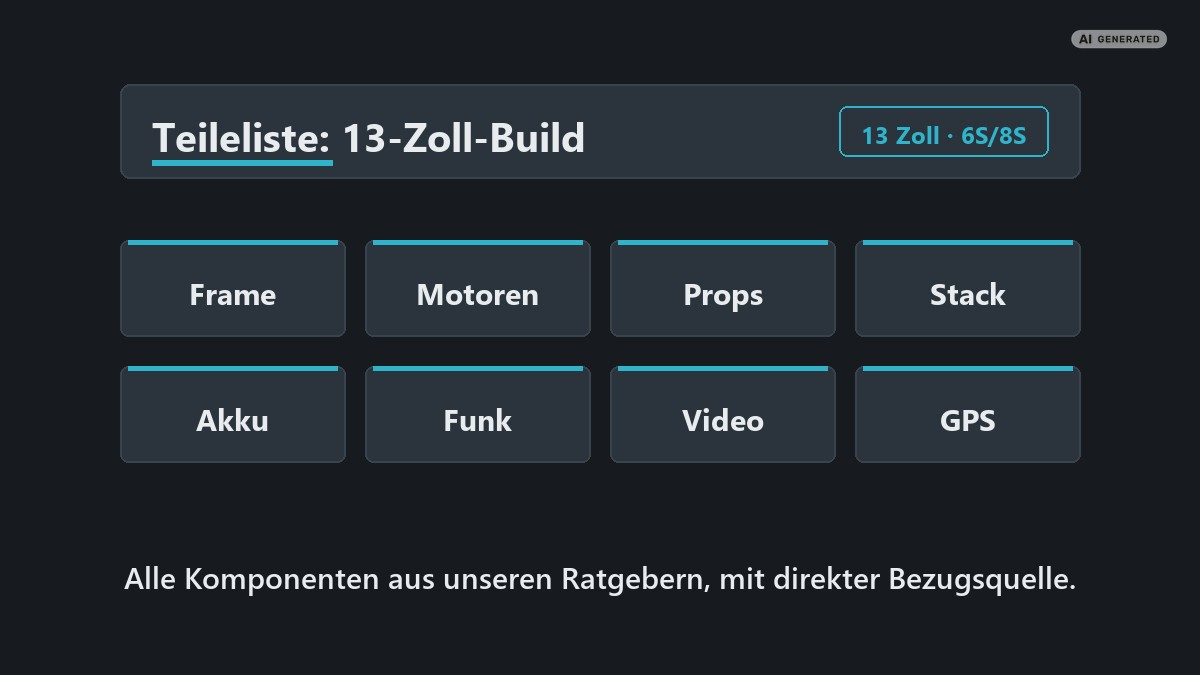
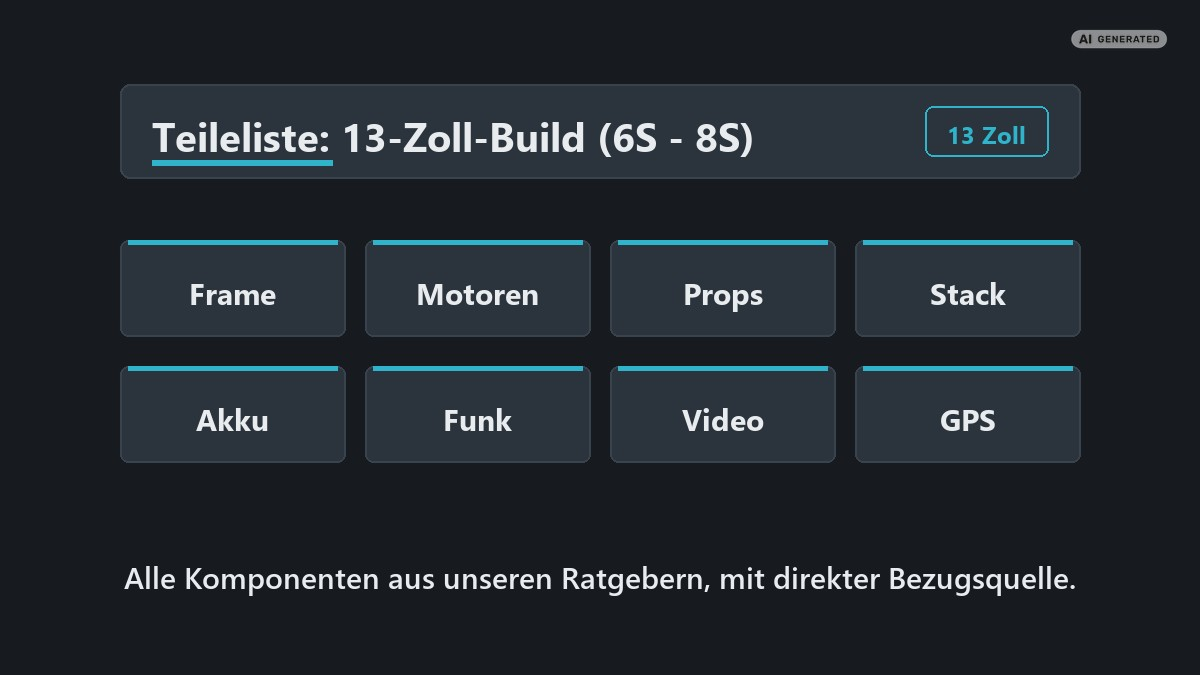
13-Zoll-Liste: Aenderungshistorie auf den Go-live-Eintrag zusammengefasst
Die Liste ist mit dem Umbau auf 13 Zoll und 6S bis 8S neu aufgesetzt worden;
die 40 Zwischeneintraege der Ueberarbeitung sind fuer Leser ohne Wert.  Zudem
Zellenzahl in den Titeln der Vorschaubilder (Chip fuehrt nur noch die Groesse).

Changed region(s): [[0.6783, 0.1556, 0.8633, 0.2489], [0.4933, 0.1867, 0.6475, 0.2489]]

diff --git a/ratgeber-teileliste-13-build-1.html b/ratgeber-teileliste-13-build-1.html
@@ -651,49 +651,6 @@
 <!-- historie:start -->
     <h2>Änderungshistorie</h2>
     <ul class="muted historie">
-      <li><strong>16.08.2026</strong> · Titel auf 13-Zoll-Build (6S - 8S) geaendert, Nummerierung Build 1 entfaellt</li>
-      <li><strong>16.08.2026</strong> · Einleitung klargestellt: Beispiel-Einkaufsliste aus zueinander passenden, aktuell lieferbaren Komponenten</li>
-      <li><strong>16.08.2026</strong> · Korrektur am Rahmen: Das Toruk-Kit hat eine Aufnahme fuer genau eine SMA-Antenne, die zweite muss selbst gedruckt oder zugekauft werden</li>
-      <li><strong>16.08.2026</strong> · Klargestellt, dass der SMA-Antennenhalter in keinem Set enthalten ist und selbst gedruckt oder zugekauft werden muss</li>
-      <li><strong>16.08.2026</strong> · Antennen bleiben optional: Die TPU-Halterung des Toruk-Kits ist fuer die Serienantennen; wer auf SMA umbaut, braucht zusaetzlich eine passende Aufnahme</li>
-      <li><strong>16.08.2026</strong> · Antennen: Am Toruk ist der Tausch praktisch gesetzt, weil dem Kit eine TPU-Halterung fuer SMA-Antennen beiliegt und die Serienantennen keine Aufnahme haben</li>
-      <li><strong>16.08.2026</strong> · Antennen und Pigtails als optionales Upgrade gekennzeichnet: beide Systeme liefern LHCP-Antennen mit, der Gewinn kommt aus Laenge und Abstand zum Carbonrahmen</li>
-      <li><strong>16.08.2026</strong> · Walksnail GT2 jetzt bei FPV24 verlinkt (statt n-factory), Lieferumfang und EU-Sendeleistung ergaenzt</li>
-      <li><strong>16.08.2026</strong> · OddityRC richtig beschrieben: Rahmen von 1S-Racing bis Long Range, nicht nur Cinewhoops</li>
-      <li><strong>16.08.2026</strong> · Lochbild der Toruk-Platte: Anfrage beim Hersteller laeuft, Angabe wird nachgetragen</li>
-      <li><strong>16.08.2026</strong> · AZ4320 eingeordnet: die 6.130 g Herstellerschub gelten mit 15-Zoll-Prop, dazu Gewichtsvergleich zum MN4012; irrefuehrender Kaufgrund gestrichen</li>
-      <li><strong>16.08.2026</strong> · Frame-Kapitel: Hinweis ergaenzt, dass das mitgelieferte Verteilerboard mit den zwei Akkuanschluessen im 6S/8S-Betrieb unbenutzt bleibt</li>
-      <li><strong>16.08.2026</strong> · Lesbarkeit: Zahlenlastige Absaetze bei Motoren, Props, Stack und Antennen in Aufzaehlungen zerlegt</li>
-      <li><strong>16.08.2026</strong> · Uebersicht: Ratgeber-Spalte wieder vollstaendig, Motoren und Props teilen sich einen Verweis, Stack-Zeilen zusammengefasst</li>
-      <li><strong>16.08.2026</strong> · OddityRC H743 als Stack-Option 2 aufgenommen (Matek-H743-kompatibel, 2S-8S, 30,5 mm, INAV und ArduPilot) samt Vergleichstabelle der drei Stacks</li>
-      <li><strong>16.08.2026</strong> · Antennen-Pigtails ergaenzt: U.FL auf SMA-Buchse fuer die DJI O4, MMCX auf SMA-Buchse fuer den Walksnail, je zwei Stueck</li>
-      <li><strong>16.08.2026</strong> · Props neu sortiert: HQProp 13x10x3 als Option 1, Gemfan 1308-3 als Option 2, T-Motor P13x4.4 als Option 3, jeweils mit der Steigung als Auswahlkriterium</li>
-      <li><strong>16.08.2026</strong> · Korrektur: Der DarwinFPV 4320 deckt mit 350KV 6S und 8S ab (praktisch gleichauf mit der KV340 des MN4012), nicht nur 6S</li>
-      <li><strong>16.08.2026</strong> · Lochbild-Hinweis praezisiert: iFlight-Stack 35x35, Velox 30,5; das Lochbild der Toruk-Platte veroeffentlicht DarwinFPV nicht</li>
-      <li><strong>16.08.2026</strong> · FC/ESC jetzt mit zwei Optionen: iFlight BLITZ H7 Pro + E80 Pro als Option 1 (INAV- und ArduPilot-faehig, 12-V-BEC, ESC bis 8S), Velox F7 SE als guenstige Option 2</li>
-      <li><strong>16.08.2026</strong> · Korrektur: Der Velox F7 SE laeuft nur mit Betaflight, INAV-Target ist beantragt aber nicht verfuegbar, ArduPilot scheidet aus</li>
-      <li><strong>16.08.2026</strong> · VTX-Ausgang des F7 SE ist umschaltbar (neue Fassung 5/12 V, alte 5/10 V); Hinweis ergaenzt, dass die kursierenden Anschlussbilder teils noch die alte Fassung zeigen</li>
-      <li><strong>16.08.2026</strong> · VTX-Versorgung auf 8S praezisiert: HD-VTX-Anschluss fuehrt 10 V, das BEC 12 V; die O4 Pro laeuft mit beidem, der Walksnail-VTX braucht die 12 V</li>
-      <li><strong>16.08.2026</strong> · RadioMaster GX15 MAX als Sender-Option 1 aufgenommen (Dual-2,4-GHz-ELRS, AG02-Gimbals), TX16S MKII wird Option 2</li>
-      <li><strong>16.08.2026</strong> · Bezugsquellen aufgeraeumt: Motorlinks nur noch zum T-Motor-Store, Stack jetzt bei FPV24, fehlender Link zum 8S 6.200 ergaenzt</li>
-      <li><strong>16.08.2026</strong> · Korrektur: O4 Air Unit Pro (2S-6S) und Walksnail-VTX (3S-6S) duerfen auf 8S nicht an VBAT, sondern an den 12-V-Ausgang des Stacks; dazu Kaufhinweis zu den zwei F7-SE-Versionen</li>
-      <li><strong>16.08.2026</strong> · VTX-Antennen ergaenzt (HGLRC Hammer Dual LHCP, zwei Stueck) samt Polarisations- und Steckerhinweis</li>
-      <li><strong>16.08.2026</strong> · Neuer Abschnitt: zwei Packs parallel (mehr Kapazitaet) oder in Reihe (mehr Spannung, 2x4S = 8S, 2x6S = 12S) samt Fallstricken</li>
-      <li><strong>16.08.2026</strong> · Akku-Kapitel erweitert: vier ROAM-Packs mit Energie, Gewicht und Energie je Kilogramm, dazu Schubbudget und Hinweis zur Parallelschaltung zweier 8S-Packs</li>
-      <li><strong>16.08.2026</strong> · Lieferumfang des MN4012 nach T-Motor-Packliste belegt: Prop-Adapter M6 und M8 liegen bei, M3x12-Schrauben gehoeren zur Deckplatte</li>
-      <li><strong>16.08.2026</strong> · Propbefestigung des MN4012 praezisiert: Deckplatte plus vier M3-Schrauben fuer T-Motor-CF-Props, M6-Adapter fuer die 6-mm-Bohrung des Gemfan (nicht 5 mm)</li>
-      <li><strong>16.08.2026</strong> · Seite umbenannt in ratgeber-teileliste-13-build-1.html; die alte Adresse leitet weiter</li>
-      <li><strong>16.08.2026</strong> · Korrektur: Der MN4012 gehoert zur T-Motor-Baureihe Navigator, nicht Antigravity</li>
-      <li><strong>16.08.2026</strong> · Eigenes Props-Kapitel ergaenzt (Gemfan 1308-3, T-Motor P13x4.4 CF) inklusive Hinweis auf Wellen- und Bohrungsmasse</li>
-      <li><strong>16.08.2026</strong> · Auslegung durchgaengig auf 6S bis 8S: Zellenzahl-KV-Tabelle, MN4012 KV400 (6S) und KV340 (8S), Akku-Optionen 6S und 8S</li>
-      <li><strong>16.08.2026</strong> · 15-Zoll-Teile in die eigene Teileliste 15-Zoll-Build 1 ausgelagert; diese Liste ist jetzt reine 13-Zoll-Liste</li>
-      <li><strong>14.08.2026</strong> · Produktfotos der Partner DarwinFPV und Ovonic zu den Kaufempfehlungen ergänzt (mit Bildfreigabe der Hersteller)</li>
-      <li><strong>13.08.2026</strong> · Motoren-Zeilen mit dem neuen Motoren-Ratgeber verlinkt</li>
-      <li><strong>13.08.2026</strong> · Übersicht: gleiche Ratgeber-Verweise benachbarter Zeilen zu einer Zelle zusammengefasst</li>
-      <li><strong>13.08.2026</strong> · Übersichtstabelle mit eigener Zeile je Alternativ-Option</li>
-      <li><strong>13.08.2026</strong> · Ampow-Link auf die ROAM-Kollektion (6S/8S) umgezogen</li>
-      <li><strong>13.08.2026</strong> · Aufteilung in 13-Zoll-Build 1 und 10-Zoll-Build: T-Motor MN4012 KV400 als Motor-Alternative ergänzt, 10-Zoll-Komponenten in die Teileliste 10-Zoll-Build umgezogen</li>
-      <li><strong>12.08.2026</strong> · Snippet-Schutz: Kurzfassung und Tabellen für Google-Snippets/KI-Overviews gesperrt (data-nosnippet), KI-Trainings-Crawler per robots.txt ausgeschlossen</li>
       <li><strong>12.08.2026</strong> · Erstveröffentlichung (Go-live) mit Nachträgen am selben Tag; Änderungshistorie eingeführt</li>
     </ul>
 <!-- historie:ende -->
